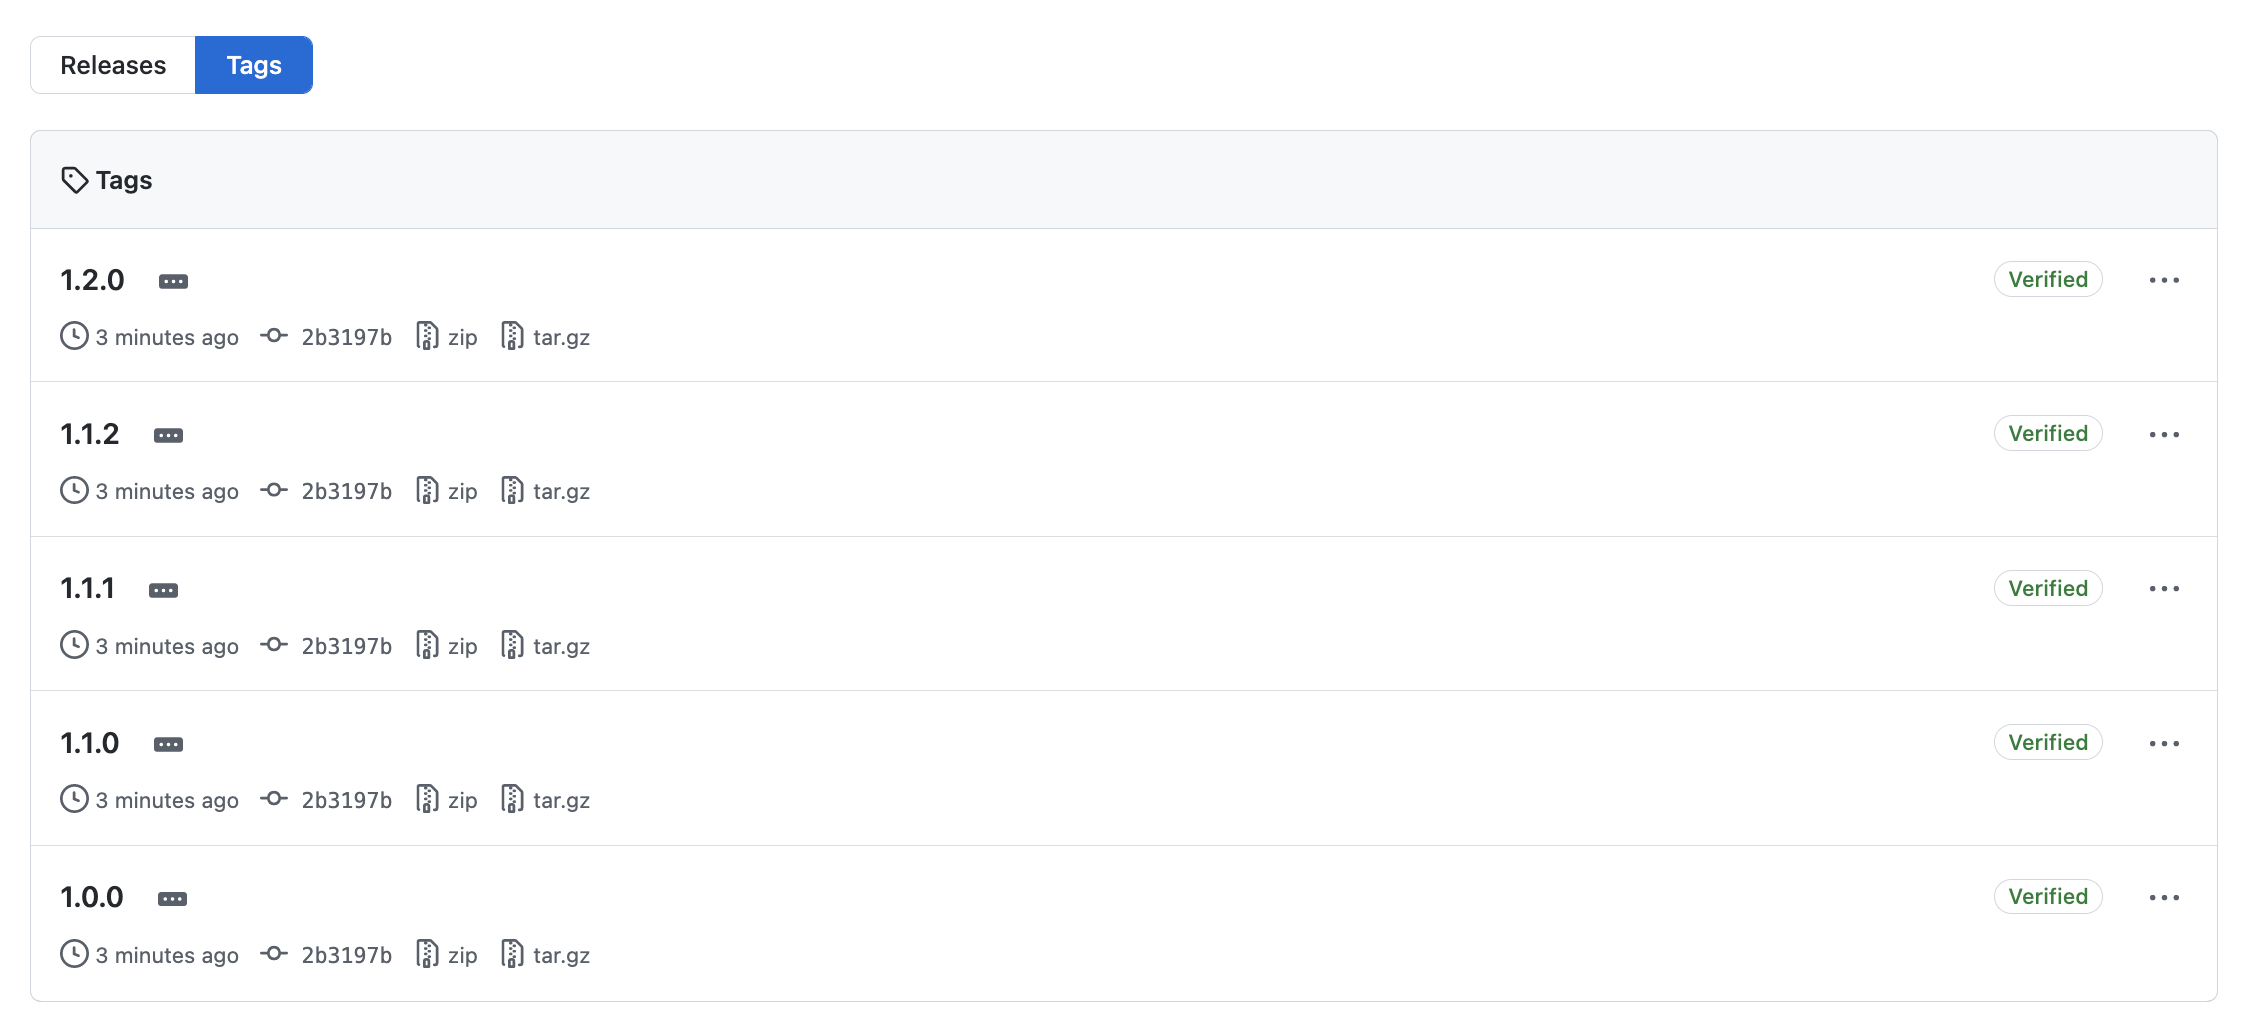
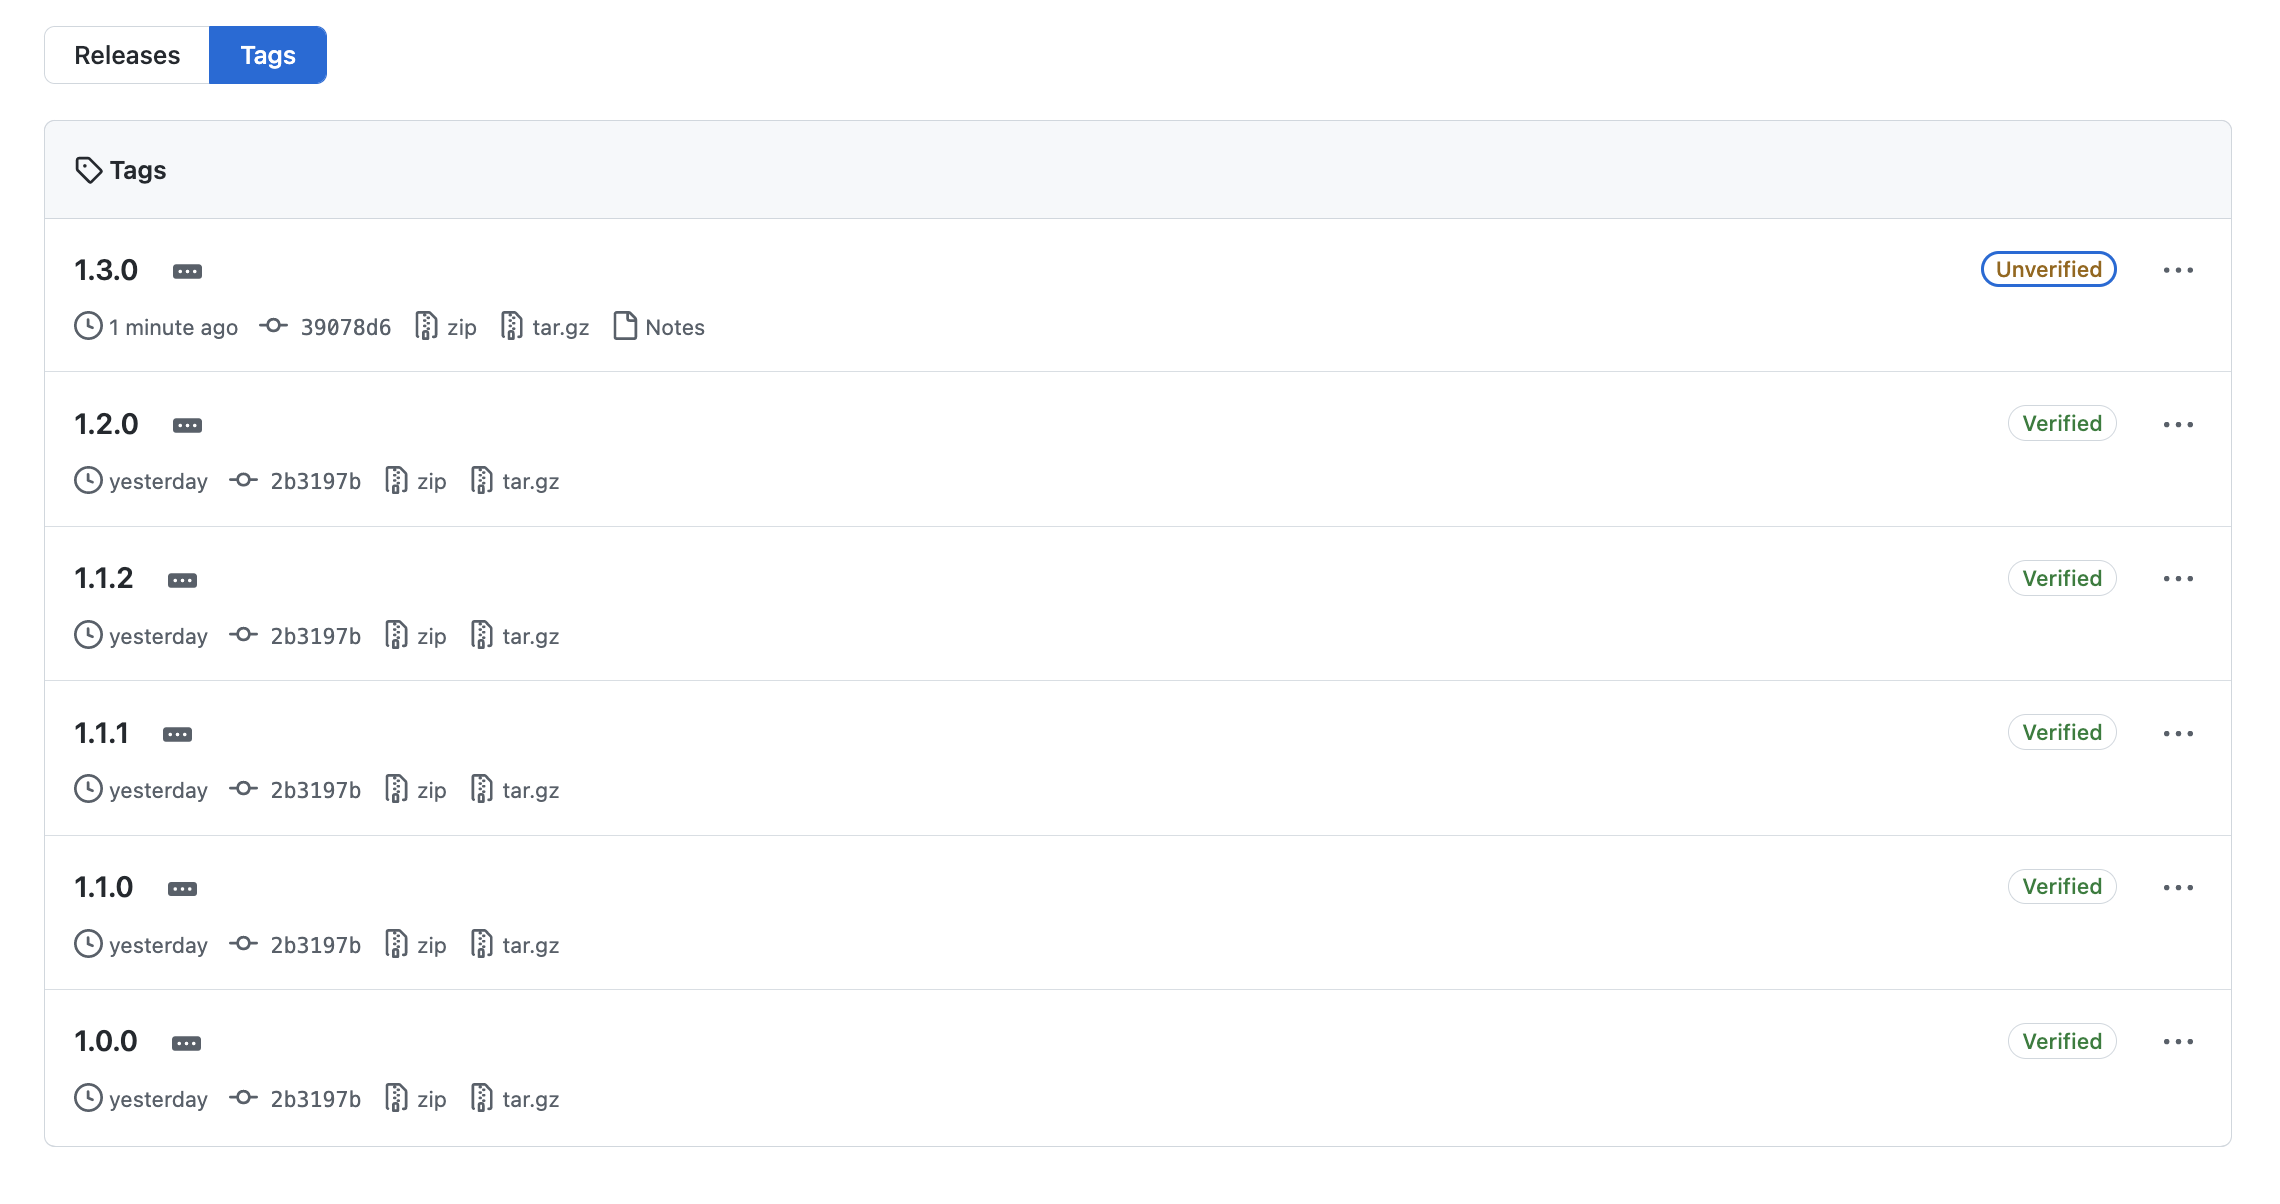
up

diff --git a/docs/index.html b/docs/index.html
@@ -22,7 +22,7 @@
 <body>
 <div class="reveal">
   <!-- Any section element inside of this container is displayed as a slide -->
-  <div class="slides" data-type-show="prez">
+  <div class="slides" data-type-show="prez" data-theme-slides="institute">
   </div>
 </div>
 

diff --git a/docs/markdown/03-semantic-release-concept/01-fusion.md b/docs/markdown/03-semantic-release-concept/01-fusion.md
@@ -41,6 +41,9 @@ La dernière version est la 19.0.5
 ##==##
 
 # How it works
+
+![center h-800](./assets/images/how_it_works.png)
+
   
 ##==##
 
@@ -91,11 +94,11 @@ Notes: plugin to analyze commits with conventional-changelog (default `angular`)
 <br/>
 
 ```text [1|3|5]
-Found git tag 1.1.2 associated with version 1.2.0 on branch master
+Found git tag 1.2.0 associated with version 1.2.0 on branch master
 [...] Analyse commit stuff
 Analysis of 2 commits complete: minor release
 [...]
-The next release version is 1.361.0
+The next release version is 1.3.0
 ```
 <!-- .element: class="big-code" -->
 
@@ -115,12 +118,16 @@ The next release version is 1.361.0
 ##==##
 # Github or Gitlab Release
 
-![center h-800](./assets/images/github_release.png)
+![center h-600](./assets/images/github_release.png)
 
 ##==##
 
 # Changelog
 
+![center h-600](./assets/images/changelog.png)
+
+
 ##==##
 # Pull request decoration
 
+![center h-600](./assets/images/pull_request_decoration.png)

diff --git a/docs/markdown/04-implementation/01-implementation.md b/docs/markdown/04-implementation/01-implementation.md
@@ -4,7 +4,7 @@
 
 - Install semantic-release
 - Install plugins
-```yaml
+```yaml [1|2|3|4|5|6|7|8]
   @semantic-release/commit-analyzer         # Analyze commits
   @semantic-release/release-notes-generator # Generate notes
   @semantic-release/npm                     # Publish packages to NPM
@@ -14,7 +14,7 @@
   @semantic-release/changelog               # Generate changelog
   @semantic-release/exec                    # Execute custom commands 
 ```
-<!-- .element: class="big-code list-fragment" -->
+<!-- .element: class="list-fragment" -->
 
 ##==##
 <!-- .slide: class="with-code"-->

diff --git a/docs/markdown/00-school/00-TITLE.md b/docs/markdown/00-school/00-TITLE.md
@@ -1,5 +1,5 @@
 <!-- .slide: class="first-slide" sfeir-level="2" sfeir-techno="" -->
 
-# **Welcome to**
+# **Semantic Release**
 
-## **Semantic Release**
+## **Donnez du sens à vos commits**
